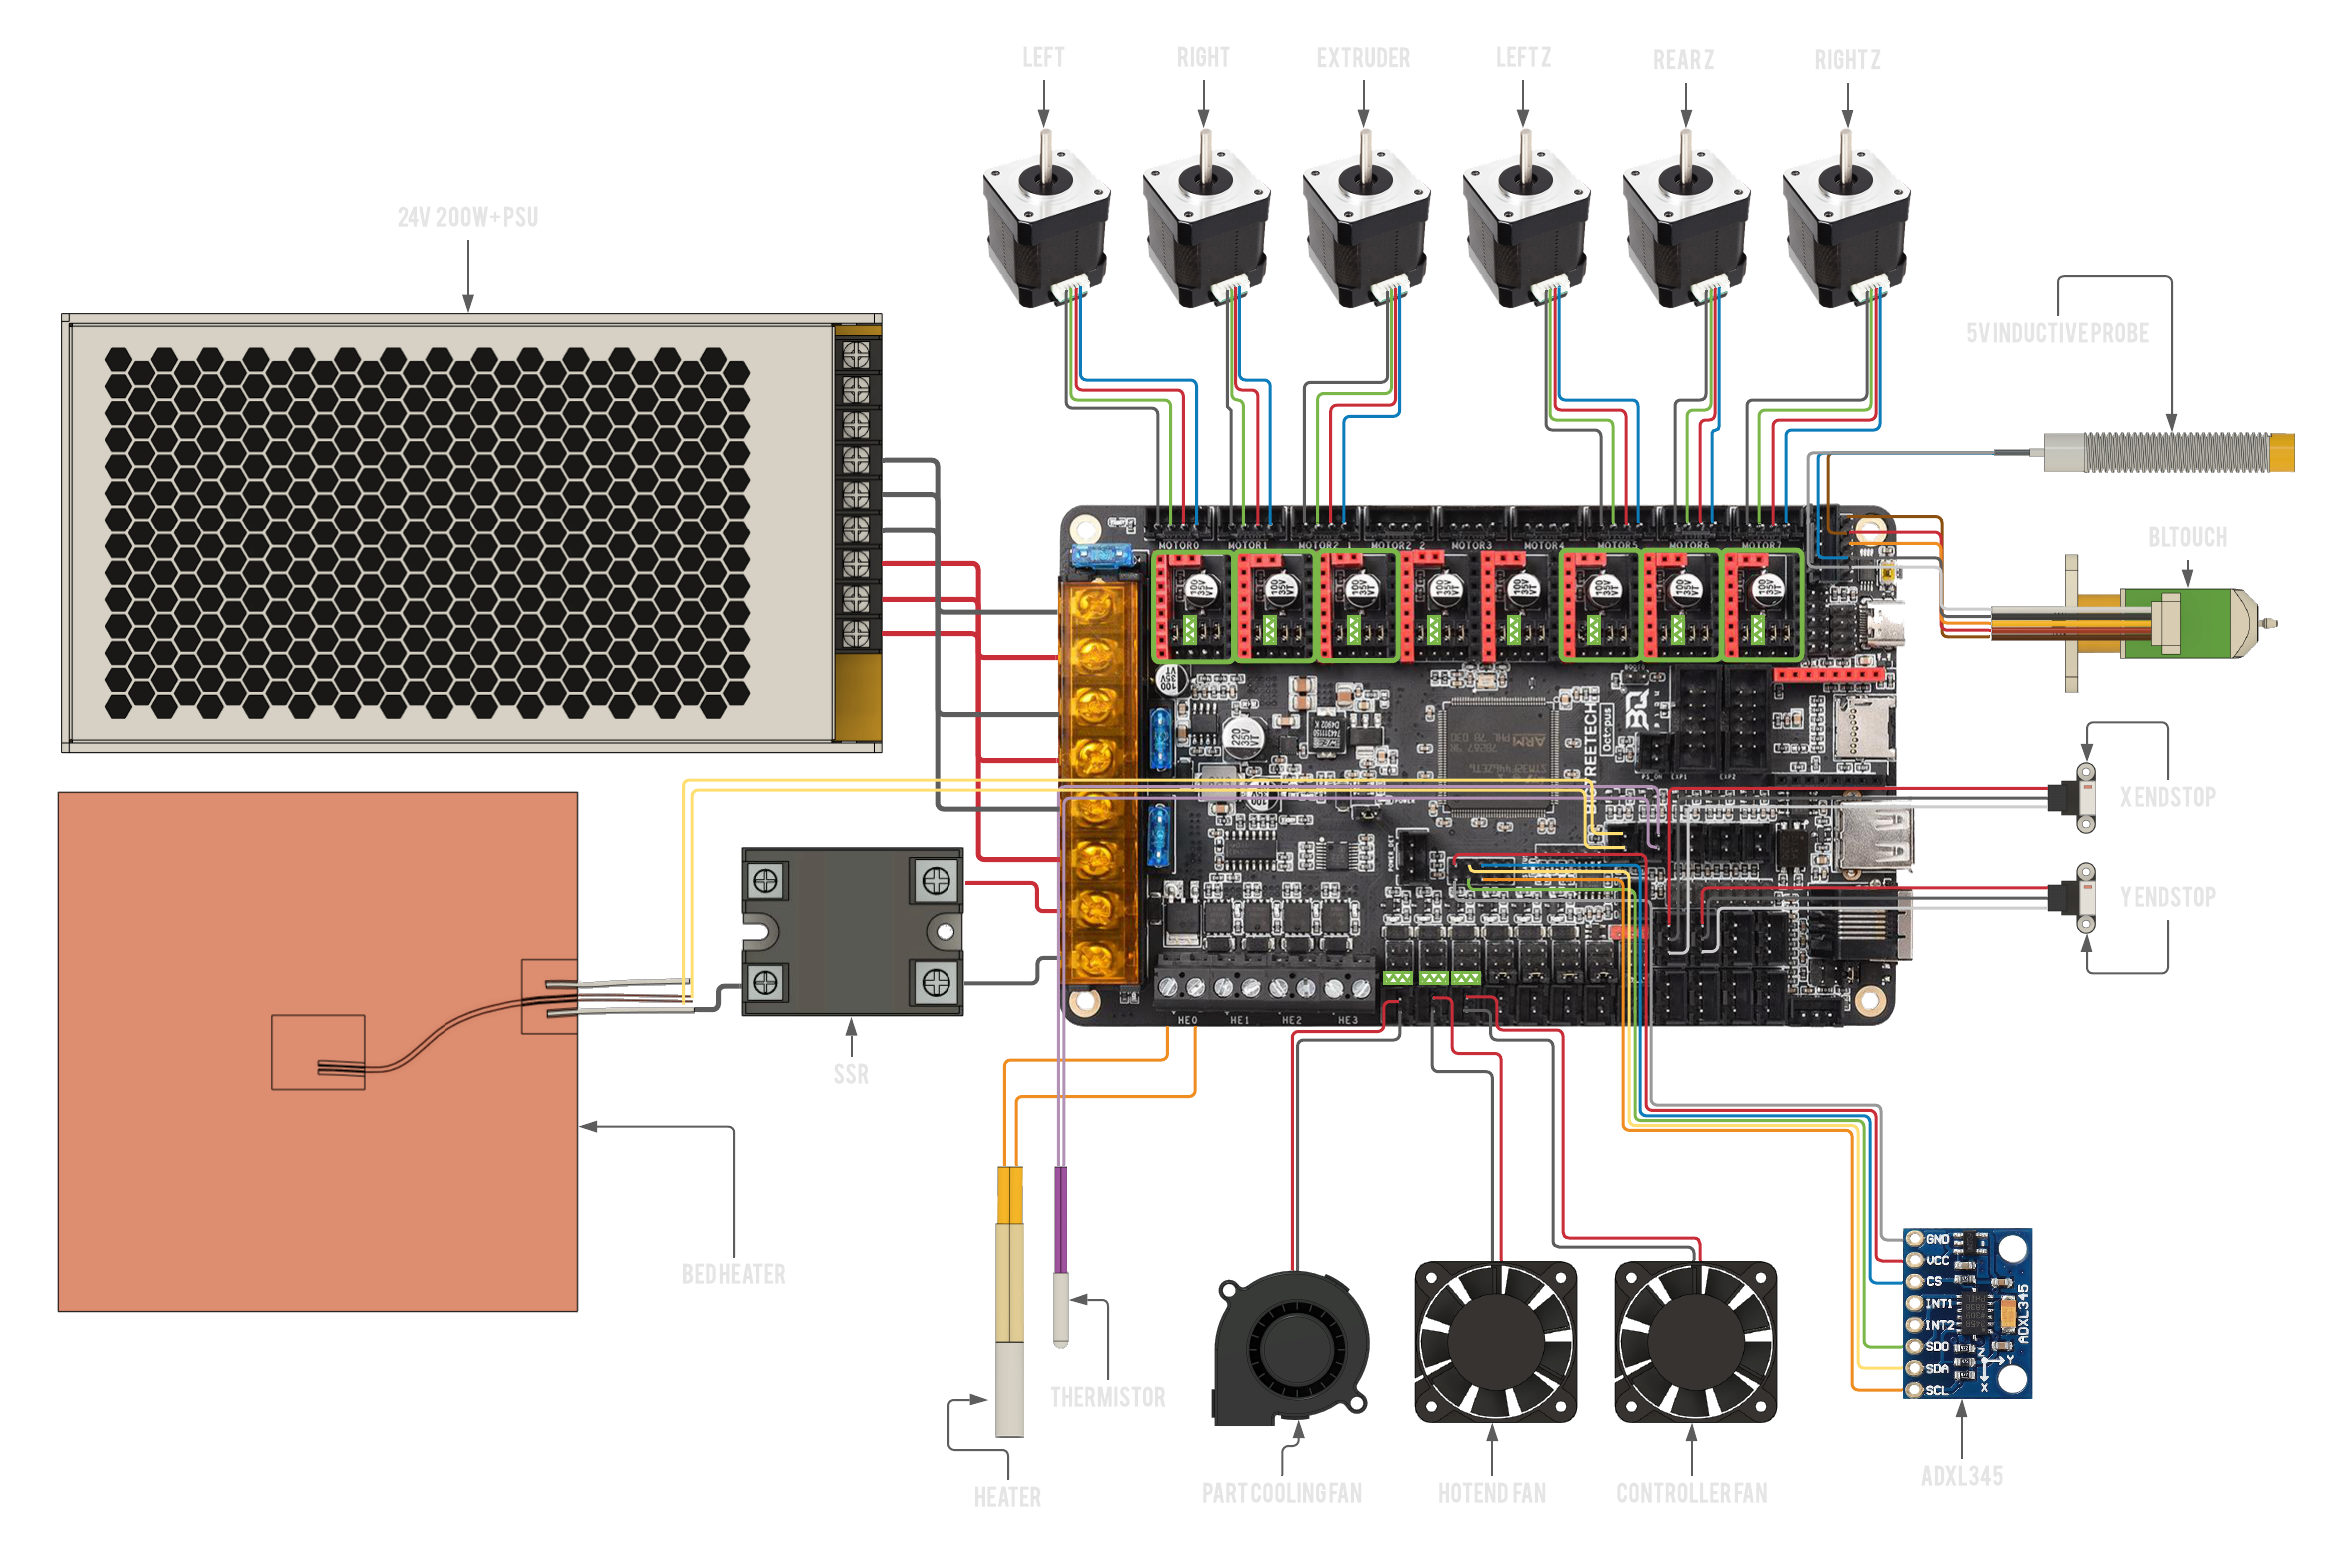
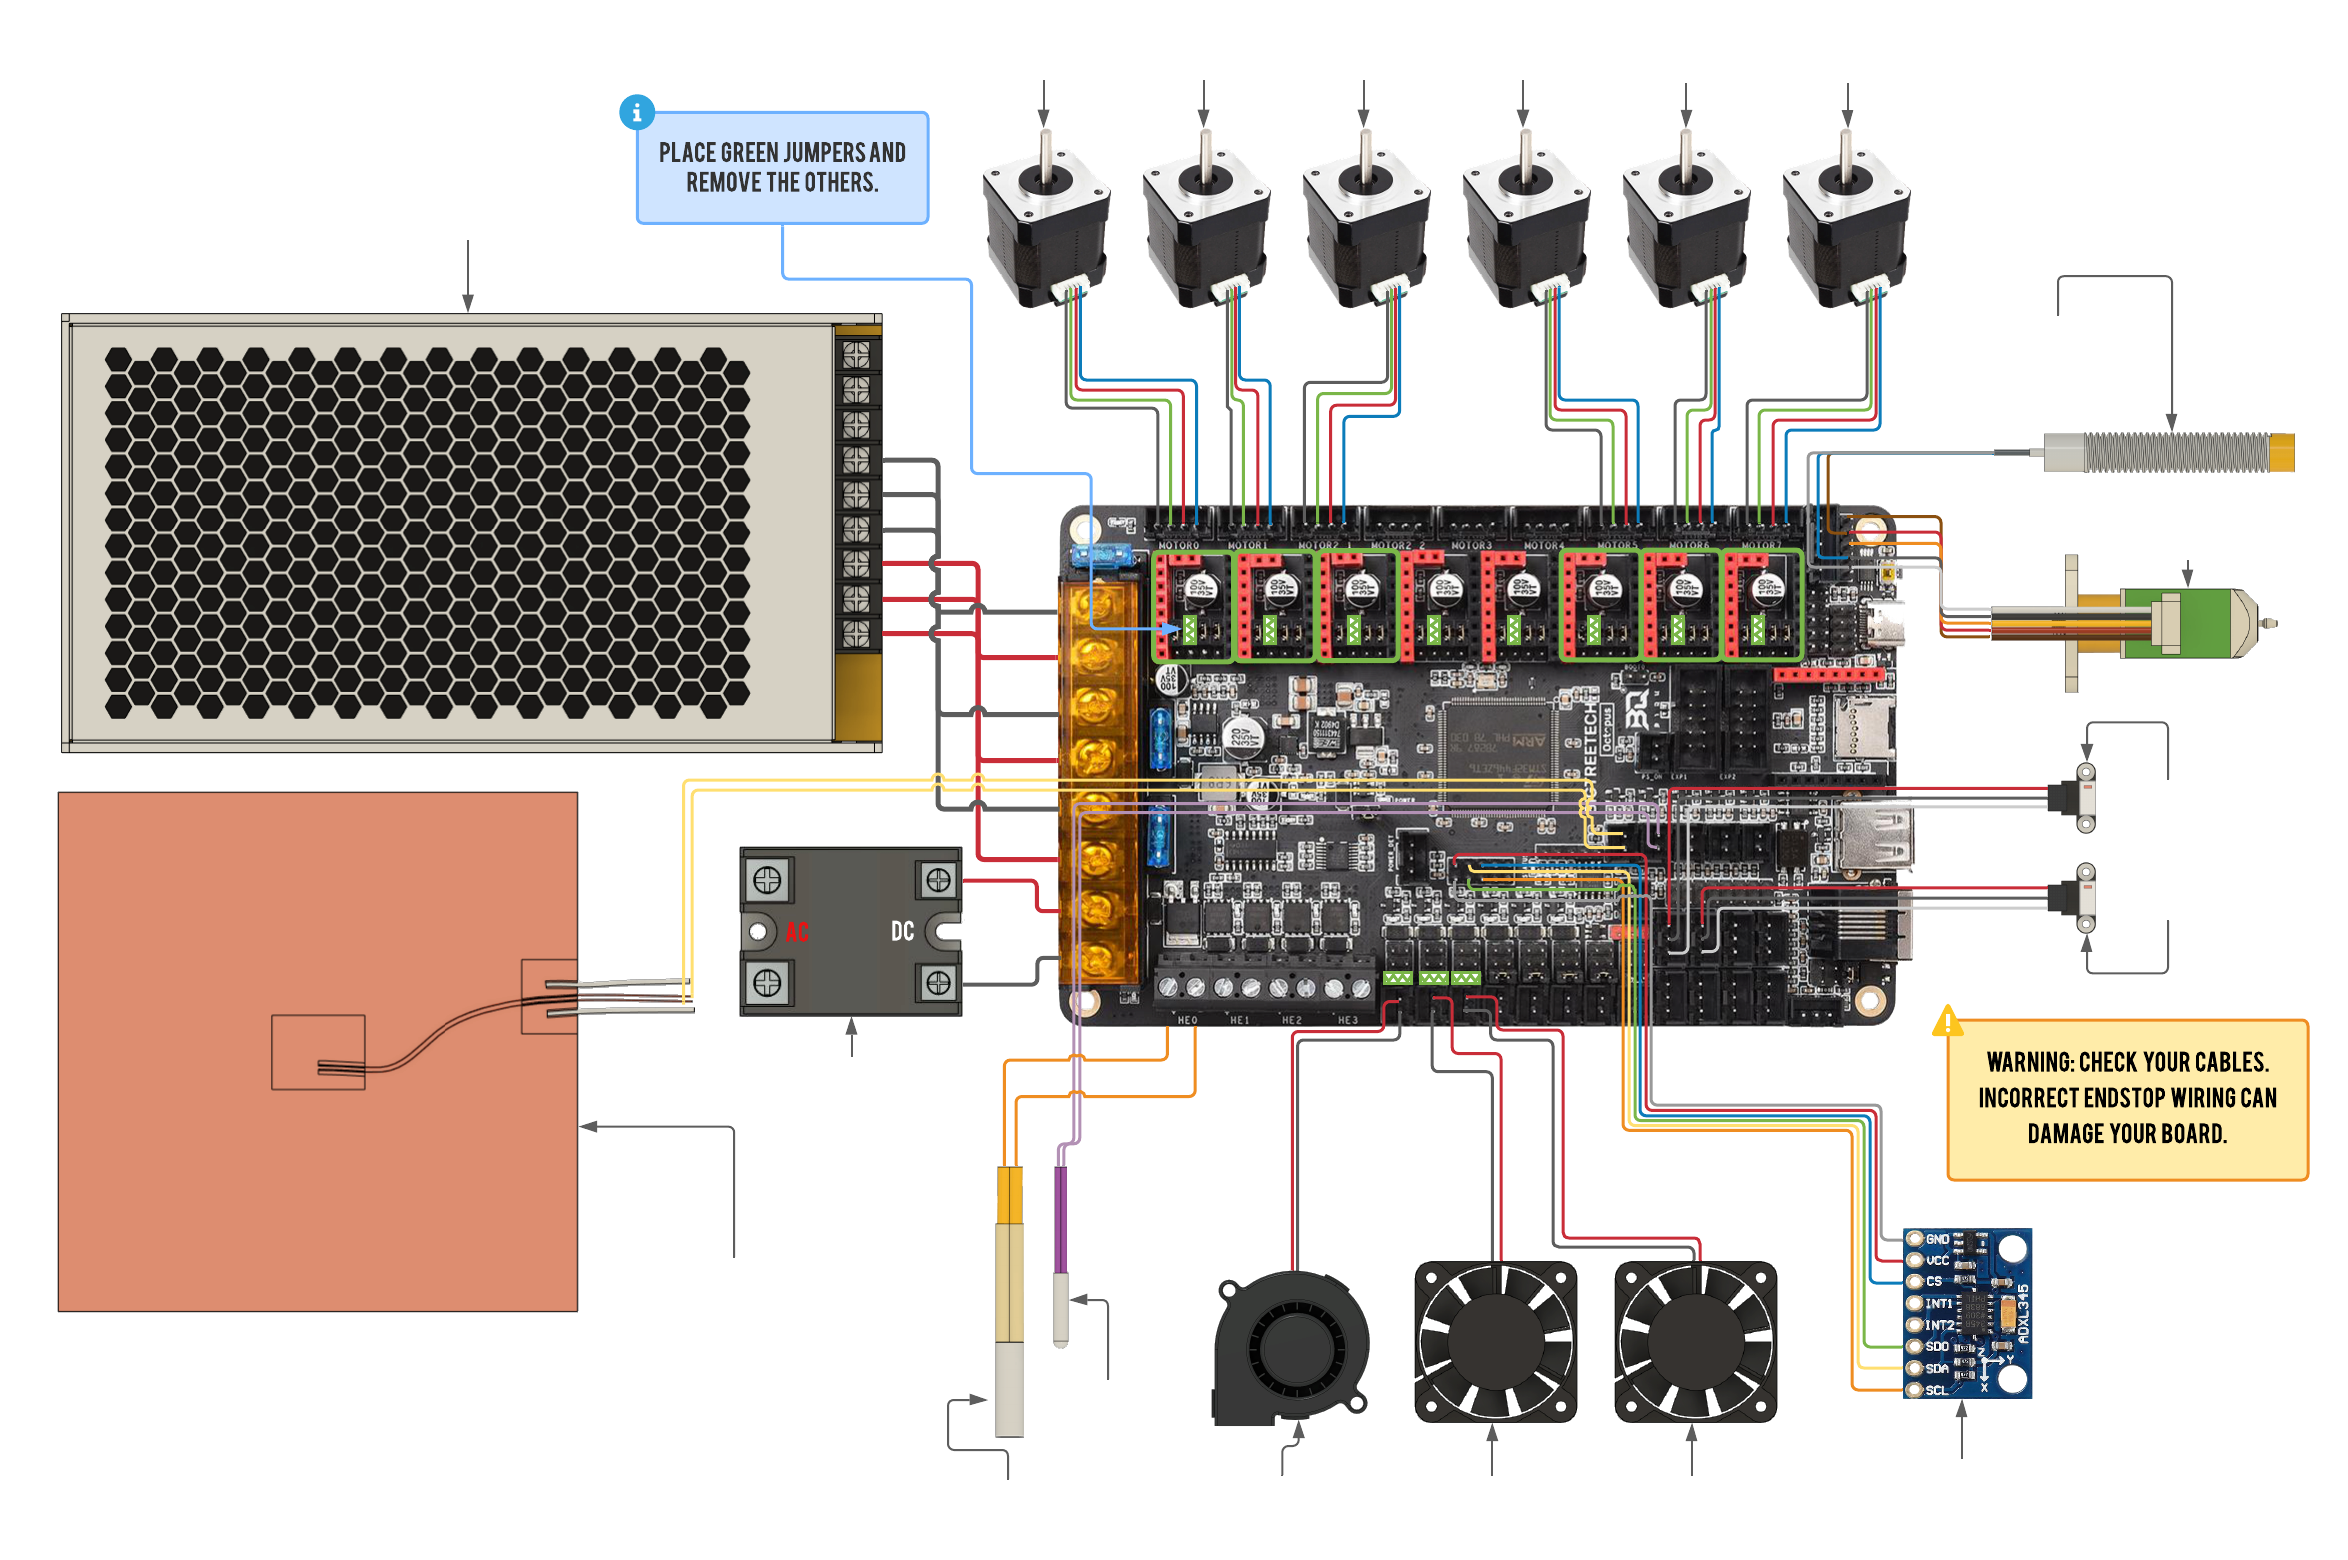
Docs: improve btt wiring diagrams

diff --git a/site/docs/boards/btt/octopus-pro-429.md b/site/docs/boards/btt/octopus-pro-429.md
@@ -11,6 +11,7 @@ This board is currently not recommended, as it cannot be flashed automatically t
 ## Wiring
 
 ![BTT Octopus Pro STM32F429 Wiring Diagram](_media/octopus-pro-wiring.png)
+[Open Full Size Image](_media/octopus-pro-wiring-full.png)
 
 :::danger if you use the Ratrig endstop switches and cables, do **not** blindly plug them in to your Octopus as doing this will short the board's 5V power rail.
 You will probably have to swap the outer two wires (red and white) on the board end of the cable but double check to make sure your cables match the wiring diagram.

diff --git a/site/docs/boards/btt/octopus-pro-446.md b/site/docs/boards/btt/octopus-pro-446.md
@@ -7,6 +7,7 @@ sidebar_label: Octopus Pro 446
 ## Wiring
 
 ![BTT Octopus Pro STM32F446 Wiring Diagram](_media/octopus-pro-wiring.png)
+[Open Full Size Image](_media/octopus-pro-wiring-full.png)
 
 :::danger if you use the Ratrig endstop switches and cables, do **not** blindly plug them in to your Octopus as doing this will short the board's 5V power rail.
 You will probably have to swap the outer two wires (red and white) on the board end of the cable but double check to make sure.

diff --git a/site/docs/boards/btt/octopus-11.md b/site/docs/boards/btt/octopus-11.md
@@ -7,6 +7,7 @@ sidebar_label: Octopus v1.1
 ## Wiring
 
 ![BTT Octopus V1.1 Wiring Diagram](_media/octopus-11-wiring.png)
+[Open Full Size Image](_media/octopus-11-wiring-full.png)
 
 :::danger if you use the Ratrig endstop switches and cables, do **not** blindly plug them in to your Octopus as doing this will short the board's 3.3V power rail.
 You will probably have to swap the outer two wires (red and white) on the board end of the cable but double check to make sure.
